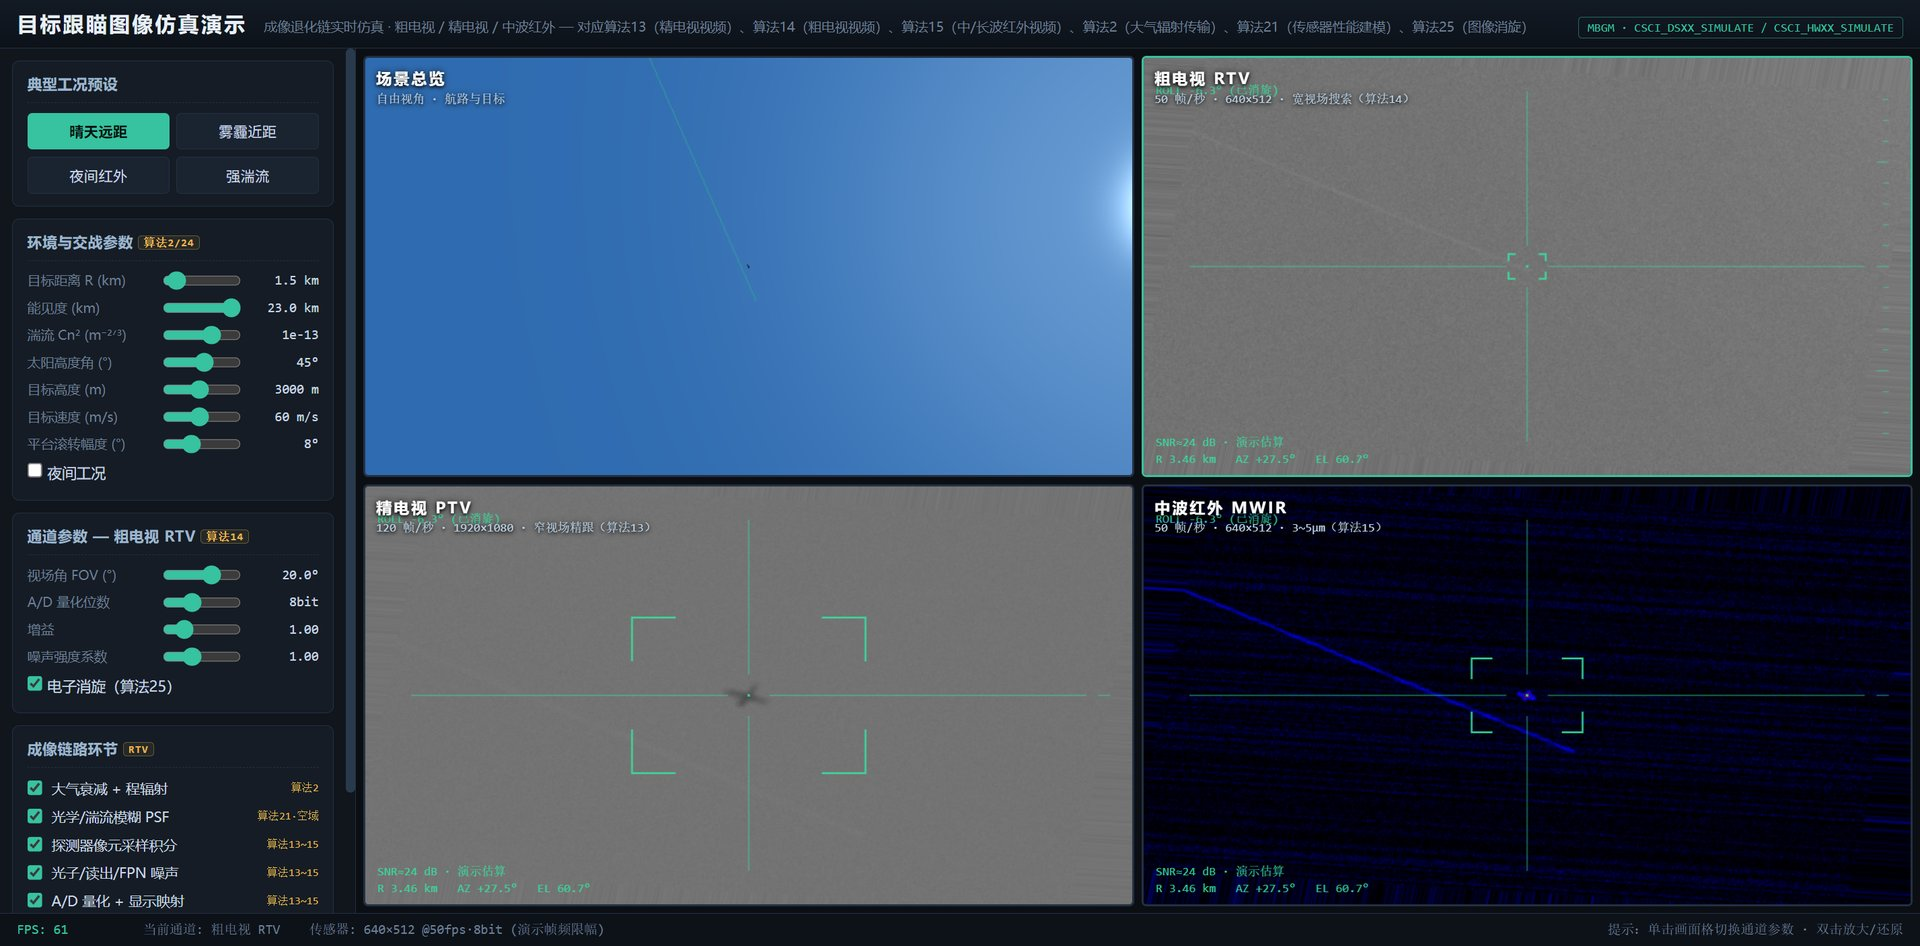
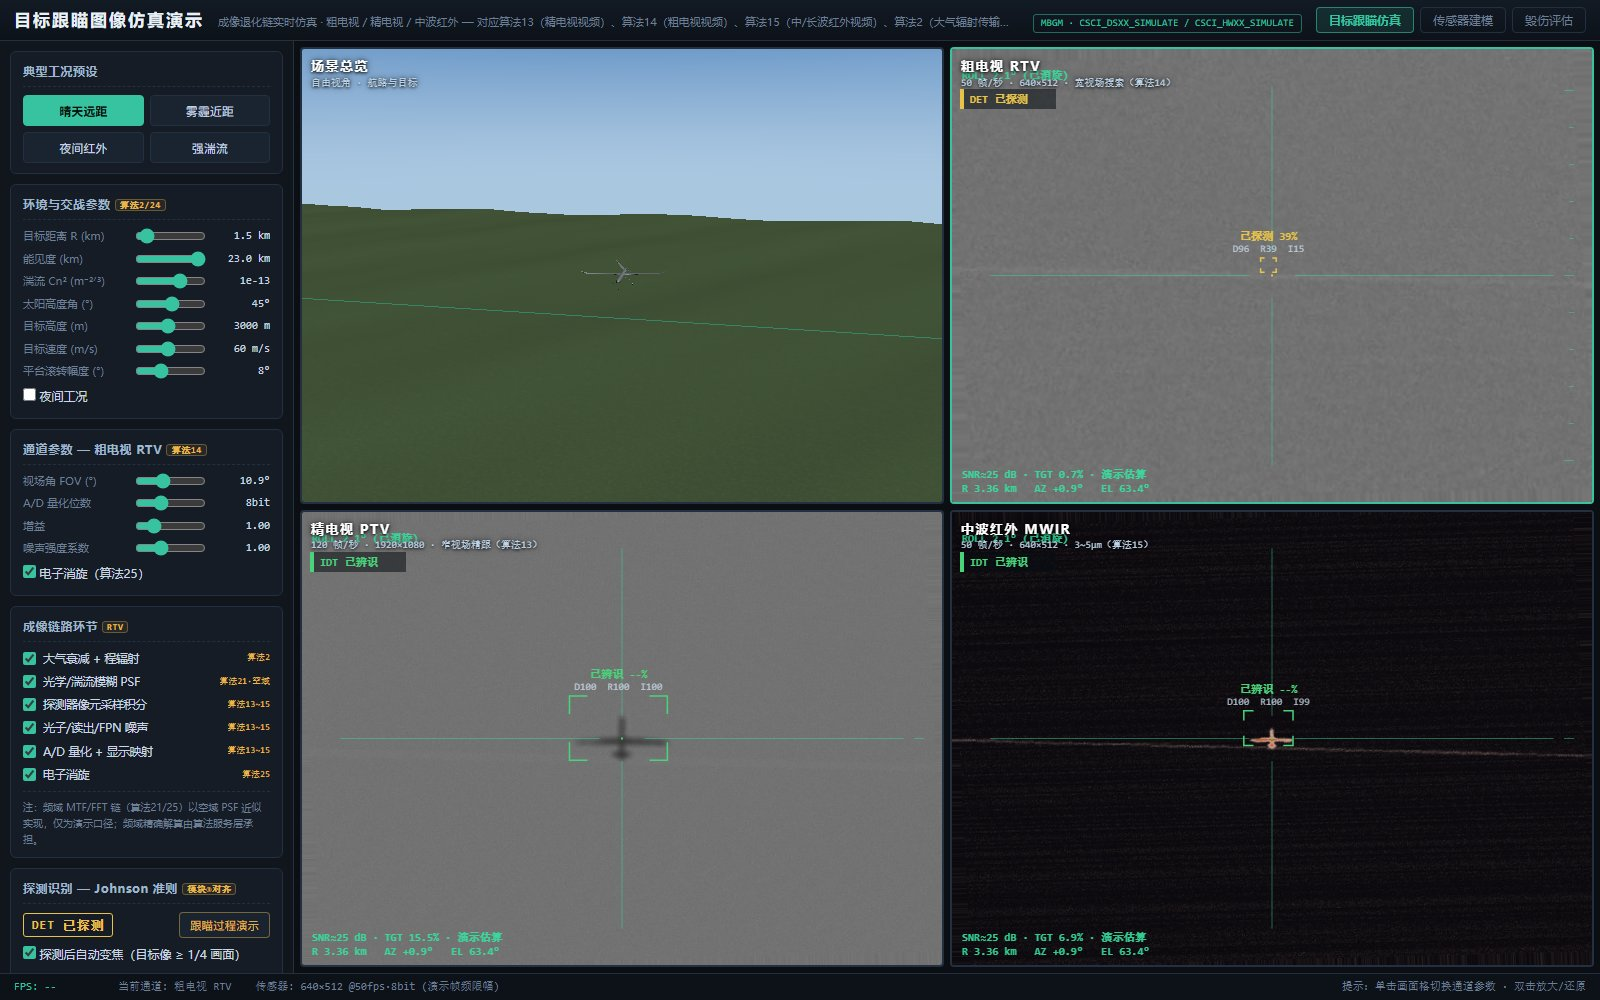
target-tracking demo: update to latest 3-page version (damage tree, sensor modelling)
Update the target-tracking introduction to the latest software version: three linked pages (tracking simulation / sensor modelling / damage assessment). Add damage-tree feature description (20 basic events, AND/OR/voting gates, Monte-Carlo N=2000, minimal cut sets, AHP-TOPSIS decision, algorithms 16/17/26), sensor-modelling page description (MTF chain, Nyquist, Johnson ranges, 45/45 cross-check), rename title to Target-Tracking System Demo, and add screenshots of all three pages. Update EN/ZH software list cards accordingly.

diff --git a/softwares/target-tracking/index.html b/softwares/target-tracking/index.html
@@ -3,8 +3,8 @@
 <head>
   <meta charset="UTF-8">
   <meta name="viewport" content="width=device-width, initial-scale=1.0">
-  <meta name="description" content="目标跟瞄图像仿真演示（桌面本地版）：粗电视 / 精电视 / 中波红外三通道成像退化链实时仿真，Johnson 准则探测识别评估与跟瞄过程演示。本页为软件介绍，软件本体在作者本机运行。">
-  <title>目标跟瞄图像仿真演示（本地版） | Zhaobing Jiang</title>
+  <meta name="description" content="目标跟瞄系统演示（桌面本地版）：粗电视 / 精电视 / 中波红外三通道成像退化链实时仿真与 Johnson 准则 DRI 评估，附传感器性能建模与无人机毁伤树毁伤评估（毁伤概率、最小割集、部件重要度与打击决策）。本页为软件介绍，软件本体在作者本机运行。">
+  <title>目标跟瞄系统演示（本地版） | Zhaobing Jiang</title>
   <link rel="stylesheet" href="../../assets/css/style.css">
   <script src="../../assets/js/theme.js?v=2"></script>
   <style>
@@ -152,41 +152,61 @@
   <main class="container">
     <div class="title-section">
       <h1 class="name">
-        目标跟瞄图像仿真演示
+        目标跟瞄系统演示
         <span style="font-size:15px; font-weight:600; vertical-align:4px; color:var(--accent-color); border:1px solid var(--accent-color); border-radius:999px; padding:1px 10px; white-space:nowrap;">桌面本地版</span>
       </h1>
-      <p class="affiliation">粗电视 / 精电视 / 中波红外三通道成像退化链实时仿真 —— 从理想图像到探测器画面，全过程可见、可调、可拆解。</p>
+      <p class="affiliation">目标跟瞄系统演示：三通道成像退化链实时仿真 · 传感器性能建模 · 无人机毁伤树毁伤评估 —— 三页一体，全过程可见、可调、可拆解。</p>
     </div>
 
     <p class="intro-lede">
-      本演示程序面向目标跟瞄（毁伤环境影响建模）系统，加载无人机三维模型（32,674 三角面 STL），
-      按<strong>粗电视（RTV）、精电视（PTV）、中波红外（MWIR）</strong>三套传感器参数，实时生成从理想图像到探测器画面的
-      完整成像退化链，并以 <strong>Johnson 准则</strong>实时给出探测 / 识别 / 辨识（DRI）概率与跟瞄过程演示。
-      2×2 画面布局（三维总览 + 三通道画面），距离、能见度、湍流、太阳高度角等工况参数即调即见；
-      成像链各环节可独立开关并标注对应算法编号，适合评审演示与原理讲解。软件以网页界面在本机运行，数据不出本机。
+      本演示程序面向目标跟瞄（毁伤环境影响建模）系统，由三个可互跳的演示页组成：<strong>目标跟瞄仿真</strong>页
+      加载无人机三维模型（32,674 三角面 STL），按<strong>粗电视（RTV）、精电视（PTV）、中波红外（MWIR）</strong>
+      三套传感器参数，实时生成从理想图像到探测器画面的完整成像退化链，并以 <strong>Johnson 准则</strong>实时给出
+      探测 / 识别 / 辨识（DRI）概率与跟瞄过程演示；<strong>传感器建模</strong>页对 MTF 传递链、奈奎斯特采样与
+      Johnson 探测 / 识别 / 辨识距离做正向解算；<strong>毁伤评估</strong>页以<strong>无人机毁伤树</strong>（部件失效
+      事件经 AND / OR / 表决门逐级聚合）实时评估激光辐照热毁伤下的整机毁伤等级、毁伤概率曲线、最小割集与部件
+      重要度，并给出 AHP-TOPSIS 打击方案决策。软件以网页界面在本机运行，数据不出本机。
     </p>
 
     <div class="shot-frame">
-      <img src="screenshot.jpg" alt="目标跟瞄图像仿真演示主界面：2×2 布局，三维总览与粗电视 / 精电视 / 中波红外三通道画面，右侧为工况参数与跟瞄面板">
+      <img src="screenshot.jpg" alt="目标跟瞄仿真页主界面：2×2 布局，三维总览与粗电视 / 精电视 / 中波红外三通道画面，右侧为工况参数与跟瞄面板">
     </div>
     <p class="shot-cap">
-      演示主界面（“晴天远距”预设工况）：左上为三维总览（无人机模型与航路），其余三格为粗电视、精电视、
+      目标跟瞄仿真页（主界面）：左上为三维总览（无人机模型与航路），其余三格为粗电视、精电视、
       中波红外通道画面；面板提供工况预设、全局滑块、通道参数与成像链环节开关。
+    </p>
+
+    <div class="shot-frame">
+      <img src="screenshot_sensor.jpg" alt="传感器建模页：MTF 传递链、奈奎斯特采样与 Johnson 探测 / 识别 / 辨识距离解算结果">
+    </div>
+    <p class="shot-cap">
+      传感器建模页：按通道解算光学 / 湍流 / 探测器 MTF 传递链与奈奎斯特频率，正向给出 Johnson
+      探测 / 识别 / 辨识距离与关键参数，与模块化计算代码逐项零偏差。
+    </p>
+
+    <div class="shot-frame">
+      <img src="screenshot_damage.jpg" alt="毁伤评估页：无人机毁伤树可视化、部件状态标注与整机毁伤等级、概率曲线、最小割集与部件重要度面板">
+    </div>
+    <p class="shot-cap">
+      毁伤评估页（毁伤树）：三维模型标注部件毁伤状态与难度着色，主视觉为毁伤树逻辑结构（部件失效事件 →
+      AND / OR / 表决门 → 分级顶事件），面板输出整机毁伤等级、概率-驻留时间曲线、最小割集与部件重要度。
     </p>
 
     <section class="section">
       <h2 class="section-title">主要功能</h2>
       <div class="feat-grid">
-        <div class="feat-item"><b>三通道传感器成像</b> — 粗电视 640×512@50fps、精电视 1920×1080（视场 0.8° 可调）、中波红外 640×512 伪彩色标（铁红 / 白热 / 黑热），参数与项目算法文档一致。</div>
+        <div class="feat-item"><b>三通道传感器成像</b> — 粗电视 640×512@50fps、精电视 1920×1080（视场 0.8° 可调）、中波红外 640×512 伪彩色标（铁红 / 白热 / 黑热），参数与项目算法文档一致，模糊链按通道工作波长（0.6 / 0.6 / 4.2 µm）计算。</div>
         <div class="feat-item"><b>完整成像退化链</b> — 理想图像 → 大气衰减 → 光学 / 湍流模糊 → 像元采样 → 光子 / 读出 / FPN 噪声 → A/D 量化 → 电子消旋，七个环节逐级可开关、标注算法编号。</div>
         <div class="feat-item"><b>Johnson 准则 DRI 评估</b> — 探测 / 识别 / 辨识概率实时显示，跟踪框按 DRI 等级分级变化，数值与模块化算法代码口径一致。</div>
-        <div class="feat-item"><b>跟瞄过程剧本</b> — 搜索 → 探测 → 识别 → 辨识 → 锁定全流程演示，十字丝、刻度、距离 / 方位 / SNR 演示值实时叠加。</div>
-        <div class="feat-item"><b>工况与场景交互</b> — 距离 0.5~15 km、能见度、湍流强度 Cn²、太阳高度角、目标速度滑块即调即见；晴天远距 / 雾霾近距 / 夜间红外 / 强湍流四种预设一键切换。</div>
-        <div class="feat-item"><b>纯前端零依赖</b> — Three.js 本地化，无后端、无外网依赖，拷贝即用；双击画面格可放大单通道观察细节。</div>
+        <div class="feat-item"><b>跟瞄过程剧本与工况交互</b> — 搜索 → 探测 → 识别 → 辨识 → 锁定全流程演示；距离 0.5~15 km、能见度、湍流强度 Cn²、太阳高度角等滑块即调即见，四种预设一键切换。</div>
+        <div class="feat-item"><b>传感器性能建模页</b> — 按通道解算 MTF 传递链、奈奎斯特采样与 Johnson 探测 / 识别 / 辨识距离；与 Python 模块化计算代码交叉核验 45/45 项零偏差。</div>
+        <div class="feat-item"><b>毁伤树评估</b> — 激光辐照热毁伤：物理判据（功率密度 × 驻留时间）→ 20 项部件失效事件经 AND / OR / 表决门逐级聚合 → 整机毁伤等级；毁伤树结构、部件状态与难度着色可视化。</div>
+        <div class="feat-item"><b>蒙特卡洛概率与打击决策</b> — 同源蒙特卡洛（N=2000）给出概率-驻留时间曲线、最小割集与部件重要度；7 个瞄准点预设，AHP-TOPSIS 打击方案排序与自动演示。</div>
+        <div class="feat-item"><b>纯前端零依赖</b> — Three.js 本地化，无后端、无外网依赖，拷贝即用；三页同端口互跳，双击画面格可放大单通道观察细节。</div>
       </div>
       <p class="metric-line">
-        三通道 2×2 实时渲染 · 无人机模型 32,674 三角面 · 成像链 7 环节逐级开关 · 距离 0.5~15 km ·
-        大气衰减按能见度换算 · 湍流模糊随 Cn²·R 增长
+        三页一体（跟瞄仿真 / 传感器建模 / 毁伤评估）· 三通道 2×2 实时渲染 · 成像链 7 环节逐级开关 ·
+        毁伤树 20 底事件 · 蒙特卡洛 N=2000 · 双端交叉核验 45/45 项零偏差 · 距离 0.5~15 km
       </p>
     </section>
 
@@ -215,9 +235,11 @@
       <h2 class="section-title">算法依据与说明</h2>
       <p>
         本演示依据项目《算法详细说明文档》中的算法 2（大气辐射传输）、算法 13/14/15（粗电视 / 精电视 /
-        红外视频）、算法 21（传感器性能建模，界面以空域 PSF 近似，频域精确解算由算法服务层承担）与
-        算法 25（图像消旋）实现；DRI 数值与 Johnson 准则模块化算法代码保持一致。
-        大气透过率等定量环节配有独立的模块化计算代码与校核报告，可按需提供。
+        红外视频）、算法 21（传感器性能建模，界面以空域 PSF 近似，频域精确解算由算法服务层承担）、
+        算法 25（图像消旋）与算法 16/17/26（激光辐照热毁伤判据、毁伤树逻辑聚合与同源蒙特卡洛概率）实现；
+        DRI 数值与 Johnson 准则模块化算法代码保持一致，毁伤树的失效判据按试验 / 经验构建并与故障树分析结合。
+        传感器建模页与 Python 模块化计算代码经双端交叉核验（45/45 项零偏差）；大气透过率等定量环节配有
+        独立的模块化计算代码与校核报告，可按需提供。
       </p>
     </section>
   </main>

diff --git a/softwares/index.html b/softwares/index.html
@@ -123,18 +123,24 @@
 
       <article class="soft-card">
         <div class="soft-strip" aria-hidden="true"></div>
-        <h3 class="soft-title">2. Target-Tracking Image Simulation Demo<span class="soft-tag">local app</span></h3>
+        <h3 class="soft-title">2. Target-Tracking System Demo<span class="soft-tag">local app</span></h3>
         <p class="soft-desc">
-          An interactive image-simulation demo for a target-tracking (damage-environment modeling)
-          system. A UAV model is tracked by three simulated sensors &mdash; coarse TV (640&times;512@50fps),
-          fine TV (1920&times;1080) and mid-wave infrared (false colour) &mdash; with the full imaging degradation
-          chain (atmosphere, optics/turbulence blur, pixel sampling, noise, quantisation, electronic
-          de-rotation) switchable stage by stage. Johnson-criterion DRI probabilities and a
-          search-to-lock tracking scenario are rendered in real time, with four one-click weather presets.
+          An interactive demo suite for a target-tracking (damage-environment modeling) system,
+          three linked pages in one local web app. The tracking-simulation page renders a UAV model
+          through three simulated sensors &mdash; coarse TV (640&times;512@50fps), fine TV (1920&times;1080)
+          and mid-wave infrared (false colour) &mdash; with the full imaging degradation chain
+          (atmosphere, optics/turbulence blur, pixel sampling, noise, quantisation, electronic
+          de-rotation) switchable stage by stage, plus Johnson-criterion DRI probabilities and a
+          search-to-lock tracking scenario. The sensor-modelling page solves the per-channel MTF chain,
+          Nyquist sampling and Johnson detection/recognition/identification ranges (cross-checked
+          against the modular Python code with zero deviation on 45/45 items). The damage-assessment
+          page builds a UAV damage tree (20 component-failure events aggregated through AND/OR/voting
+          gates) for laser-induced thermal damage, with Monte-Carlo probability curves, minimal cut
+          sets, component importance and AHP-TOPSIS strike-option ranking.
         </p>
         <p class="soft-meta">
-          three channels in a 2&times;2 live view &nbsp;&middot;&nbsp; 7-stage switchable degradation chain
-          &nbsp;&middot;&nbsp; range 0.5&ndash;15 km &nbsp;&middot;&nbsp; pure front-end, zero external dependencies
+          three linked pages &nbsp;&middot;&nbsp; 7-stage switchable degradation chain &nbsp;&middot;&nbsp;
+          damage tree with 20 basic events, Monte-Carlo N=2000 &nbsp;&middot;&nbsp; pure front-end, zero external dependencies
         </p>
         <p class="soft-actions">
           <a class="soft-btn" href="./target-tracking/">Software details &rarr;</a>

diff --git a/zh/softwares.html b/zh/softwares.html
@@ -110,14 +110,17 @@
 
       <article class="soft-card">
         <div class="soft-strip" aria-hidden="true"></div>
-        <h3 class="soft-title">2. 目标跟瞄图像仿真演示<span class="soft-tag">桌面本地版</span></h3>
+        <h3 class="soft-title">2. 目标跟瞄系统演示<span class="soft-tag">桌面本地版</span></h3>
         <p class="soft-desc">
-          面向目标跟瞄（毁伤环境影响建模）系统的交互式图像仿真演示。无人机三维模型由粗电视（640×512@50fps）、
-          精电视（1920×1080）与中波红外（伪彩）三套传感器实时成像，完整成像退化链（大气衰减、光学/湍流模糊、
-          像元采样、噪声、量化、电子消旋）逐级可开关；Johnson 准则探测/识别/辨识（DRI）概率与
-          搜索→锁定跟瞄剧本实时演示，四种工况预设一键切换。
+          面向目标跟瞄（毁伤环境影响建模）系统的交互式演示套件，三页一体、同端口互跳。目标跟瞄仿真页：
+          无人机三维模型由粗电视（640×512@50fps）、精电视（1920×1080）与中波红外（伪彩）三套传感器实时成像，
+          完整成像退化链（大气衰减、光学/湍流模糊、像元采样、噪声、量化、电子消旋）逐级可开关，
+          Johnson 准则探测/识别/辨识（DRI）概率与搜索→锁定跟瞄剧本实时演示。传感器建模页：按通道解算
+          MTF 传递链、奈奎斯特采样与 Johnson 探测/识别/辨识距离，与模块化计算代码交叉核验 45/45 项零偏差。
+          毁伤评估页：无人机毁伤树（20 项部件失效事件经 AND/OR/表决门聚合）评估激光辐照热毁伤，
+          输出蒙特卡洛概率曲线、最小割集、部件重要度与 AHP-TOPSIS 打击方案排序。
         </p>
-        <p class="soft-meta">三通道 2×2 实时渲染 · 成像链 7 环节逐级开关 · 距离 0.5~15 km · 纯前端零依赖</p>
+        <p class="soft-meta">三页一体（跟瞄仿真 / 传感器建模 / 毁伤评估） · 成像链 7 环节逐级开关 · 毁伤树 20 底事件 · 纯前端零依赖</p>
         <p class="soft-actions">
           <a class="soft-btn" href="../softwares/target-tracking/">软件介绍 →</a>
           <span class="soft-side">介绍页含软件截图与运行说明 · 软件本体仅对作者本机开放</span>
